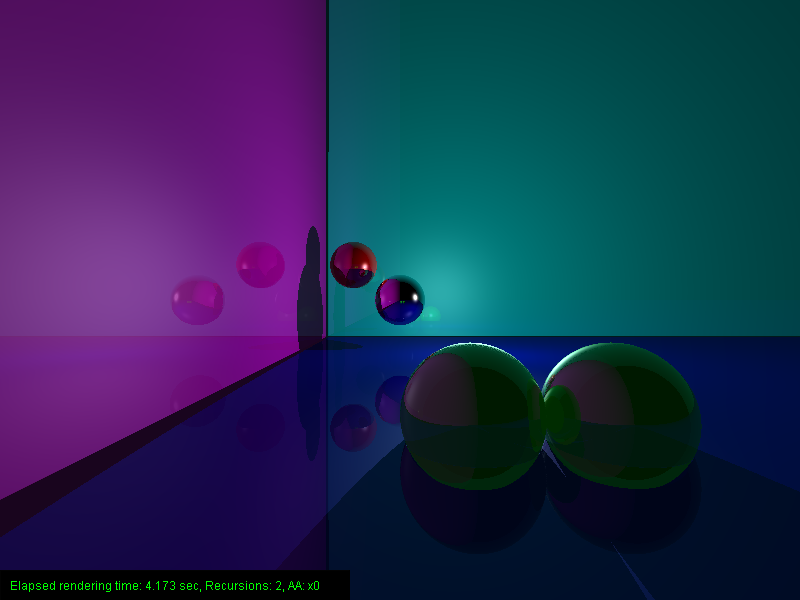
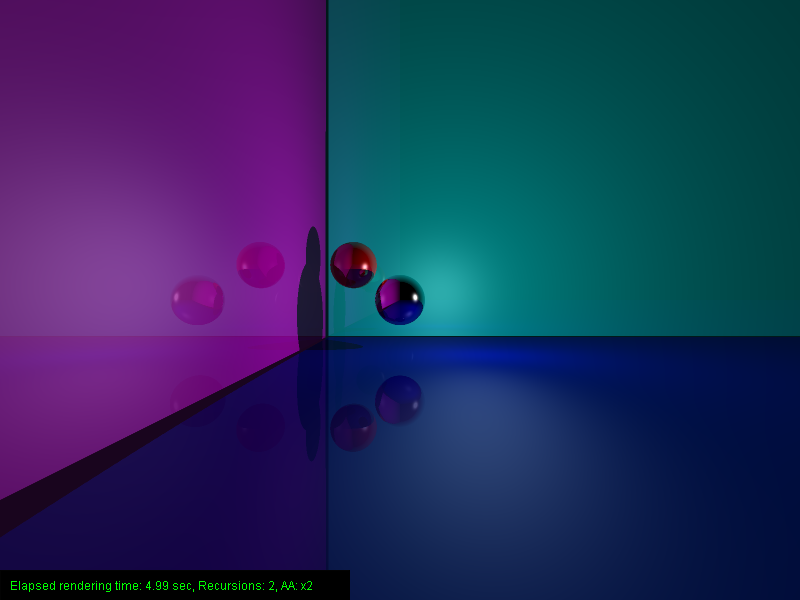
Anti Aliasing

Changed region(s): [[0.1875, 0.57, 0.9375, 1.0], [0.4062, 0.42, 0.4375, 0.48], [0.5312, 0.51, 0.5625, 0.54]]

diff --git a/VCG_Raytracer/src/raytracer/Raytracer.java b/VCG_Raytracer/src/raytracer/Raytracer.java
@@ -30,8 +30,6 @@ import utils.io.Log;
 
 import java.awt.image.BufferedImage;
 import java.util.ArrayList;
-import java.util.Collections;
-import java.util.Comparator;
 
 public class Raytracer {
 
@@ -41,11 +39,25 @@ public class Raytracer {
     private Window mRenderWindow;
 
     private int mMaxRecursions;
+    private AntiAliasingLevel antiAliasingLevel;
+    ArrayList<Vec2> antiAliasingPositions = new ArrayList<>();
 
-    public Raytracer(Scene scene, Window renderWindow, int recursions) {
+    public enum AntiAliasingLevel {
+        disabled,
+        x2,
+        x4,
+        x8
+    }
+
+//    private Vec2 antiAliasingResolution;
+
+    public Raytracer(Scene scene, Window renderWindow, int recursions, AntiAliasingLevel antiAliasingLevel) {
         Log.print(this, "Init");
         mMaxRecursions = recursions;
+        this.antiAliasingLevel = antiAliasingLevel;
         mBufferedImage = renderWindow.getBufferedImage();
+//        antiAliasingResolution = new Vec2(mBufferedImage.getWidth() * antiAliasingLevel, mBufferedImage.getHeight() * antiAliasingLevel);
+
 
         this.scene = scene;
         mRenderWindow = renderWindow;
@@ -62,12 +74,19 @@ public class Raytracer {
         float windowWidth = ratio * windowHeight;
         Vec3 windowCenter = cam.getPosition().add(cam.view.multScalar(cam.focalLength));
 
+        generateAADistribution();
+
 
 //        Log.print(this, "resolution: " + mBufferedImage.getWidth() + " x " + mBufferedImage.getHeight());
 //        Log.print(this, "ratio: " + ratio);
 //        Log.print(this, "window height: " + windowHeight);
 //        Log.print(this, "window width: " + windowWidth);
 //        Log.print(this, "window center: " + windowCenter);
+
+        Log.print(this, "0,0 = " + pixelPosNormalized(0, 0));
+        Log.print(this, "800,600 = " + pixelPosNormalized(799, 599));
+        Log.print(this, "0,600 = " + pixelPosNormalized(0, 599));
+        Log.print(this, "800,0 = " + pixelPosNormalized(799, 0));
 
 
         // Rows
@@ -76,34 +95,37 @@ public class Raytracer {
             for (int x = 0; x < mBufferedImage.getWidth(); x++) {
 
                 Vec2 normPos = pixelPosNormalized(x, y);
-                Vec3 worldPos = windowCenter
-                        .add(cam.camUp.multScalar(normPos.y * windowHeight / -2f))
-                        .add(cam.side.multScalar(normPos.x * windowWidth / 2f));
 
-                Ray ray = new Ray(cam.getPosition(), worldPos.sub(cam.getPosition()));
+                Vec3 colorVec = new Vec3(0, 0, 0);
 
-//                mRenderWindow.setPixel(mBufferedImage, rayToColor(ray), new Vec2(x,y));
-                mRenderWindow.setPixel(mBufferedImage, traceRay(ray, 0), new Vec2(x, y));
+                if (antiAliasingLevel == AntiAliasingLevel.disabled) {
+                    Vec3 worldPos = screen2World(windowCenter, normPos, windowWidth, windowHeight);
+
+                    Ray ray = new Ray(cam.getPosition(), worldPos.sub(cam.getPosition()));
+
+                    mRenderWindow.setPixel(mBufferedImage, traceRay(ray, 0), new Vec2(x, y));
+
+                } else {
+                    for (Vec2 pos : antiAliasingPositions) {
+
+                        Vec3 worldPos = screen2World(windowCenter, normPos.add(pos), windowWidth, windowHeight);
+
+                        Ray ray = new Ray(cam.getPosition(), worldPos.sub(cam.getPosition()));
+
+                        RgbColor color = traceRay(ray, 0);
+
+                        colorVec = colorVec.add(new Vec3(color.red(), color.green(), color.blue()));
+                    }
+
+                    colorVec = colorVec.devideScalar(antiAliasingPositions.size());
+
+                    mRenderWindow.setPixel(mBufferedImage, new RgbColor(colorVec.x, colorVec.y, colorVec.z), new Vec2(x, y));
+                }
+            }
 
 //                if(y % 10 == 0 && x % 10 == 0) Log.print(this, "pixel: " + x + "," + y + "\nnormPos:  " + normPos + "\nworldPos: " + worldPos);
-            }
         }
     }
-
-
-    private RgbColor rayToColor(Ray ray) {
-        return new RgbColor(ray.getDirection().normalize());
-    }
-
-//    private RgbColor sendPrimaryRay(Ray ray) {
-//
-//        return sendPrimaryRay(ray, false);
-//    }
-//
-//    private RgbColor sendPrimaryRay(Ray ray, boolean debug) {
-//
-//        return traceRay(ray, 0);
-//    }
 
     private RgbColor traceRay(Ray ray, int currentRecursion) {
 
@@ -125,7 +147,7 @@ public class Raytracer {
 
         RgbColor color = material.getColor(inter.interSectionPoint, inter.normal, ray.getDirection().multScalar(-1), scene);
 
-        if(currentRecursion >= mMaxRecursions || refl == 0) return color;
+        if (currentRecursion >= mMaxRecursions || refl == 0) return color;
         else {
             //calc reflection ray
             Ray reflRay = new Ray(inter.interSectionPoint, Material.getReflectionVector(inter.normal, ray.getDirection().multScalar(-1)));
@@ -136,21 +158,82 @@ public class Raytracer {
         }
     }
 
-    private RgbColor shade() {
-        return new RgbColor(0, 0, 0);
-    }
+//    private RgbColor shade() {
+//        return new RgbColor(0, 0, 0);
+//    }
+//
+//    private RgbColor traceIllumination() {
+//        return new RgbColor(0, 0, 0);
+//    }
 
-    private RgbColor traceIllumination() {
-        return new RgbColor(0, 0, 0);
-    }
+    private Vec3 screen2World(Vec3 windowCenter, Vec2 normPos, float windowWidth, float windowHeight) {
 
-    private Vec3 screen2World(float x, float y) {
-
-        return new Vec3(2 * ((x + 0.5f) / 1) - 1, 0f, 0);
+        return windowCenter
+                .add(scene.camera.camUp.multScalar(normPos.y * windowHeight / -2f))
+                .add(scene.camera.side.multScalar(normPos.x * windowWidth / 2f));
     }
 
     private Vec2 pixelPosNormalized(float x, float y) {
         return new Vec2(2 * ((x + 0.5f) / mBufferedImage.getWidth()) - 1,
                 2 * ((y + 0.5f) / mBufferedImage.getHeight()) - 1);
+    }
+
+    private void generateAADistribution() {
+        if (antiAliasingLevel != AntiAliasingLevel.disabled) {
+//            float pixelSize = windowHeight / (float) mBufferedImage.getHeight();
+            float pixelSizeNormPos = 2 / (float) mBufferedImage.getWidth(); //relative pixel size relative to resolution
+
+            switch (antiAliasingLevel) {
+                case x2:
+                    float q4 = pixelSizeNormPos / 4;
+
+                    antiAliasingPositions.add(new Vec2(-q4, -q4));
+                    antiAliasingPositions.add(new Vec2(-q4, q4));
+                    antiAliasingPositions.add(new Vec2(q4, -q4));
+                    antiAliasingPositions.add(new Vec2(q4, q4));
+                    break;
+                case x4:
+                    float q8 = pixelSizeNormPos / 8;
+
+                    //upper left corner
+                    antiAliasingPositions.add(new Vec2(-3 * q8, q8));
+                    antiAliasingPositions.add(new Vec2(-q8, 3 * q8));
+                    //bottom left corner
+                    antiAliasingPositions.add(new Vec2(-3 * q8, -q8));
+                    antiAliasingPositions.add(new Vec2(-q8, -3 * q8));
+                    //upper right corner
+                    antiAliasingPositions.add(new Vec2(3 * q8, q8));
+                    antiAliasingPositions.add(new Vec2(q8, 3 * q8));
+                    //bottom right
+                    antiAliasingPositions.add(new Vec2(3 * q8, -q8));
+                    antiAliasingPositions.add(new Vec2(q8, -3 * q8));
+                    break;
+
+                case x8:
+                    q8 = pixelSizeNormPos / 8;
+
+                    //upper left corner
+                    antiAliasingPositions.add(new Vec2(-q8, q8));
+                    antiAliasingPositions.add(new Vec2(-3 * q8, 3 * q8));
+                    antiAliasingPositions.add(new Vec2(-3 * q8, q8));
+                    antiAliasingPositions.add(new Vec2(-q8, 3 * q8));
+                    //bottom left corner
+                    antiAliasingPositions.add(new Vec2(-q8, -q8));
+                    antiAliasingPositions.add(new Vec2(-3 * q8, -3 * q8));
+                    antiAliasingPositions.add(new Vec2(-3 * q8, -q8));
+                    antiAliasingPositions.add(new Vec2(-q8, -3 * q8));
+                    //upper right corner
+                    antiAliasingPositions.add(new Vec2(q8, q8));
+                    antiAliasingPositions.add(new Vec2(3 * q8, 3 * q8));
+                    antiAliasingPositions.add(new Vec2(3 * q8, q8));
+                    antiAliasingPositions.add(new Vec2(q8, 3 * q8));
+                    //bottom right
+                    antiAliasingPositions.add(new Vec2(q8, -q8));
+                    antiAliasingPositions.add(new Vec2(3 * q8, -3 * q8));
+                    antiAliasingPositions.add(new Vec2(3 * q8, -q8));
+                    antiAliasingPositions.add(new Vec2(q8, -3 * q8));
+                    break;
+            }
+        }
     }
 }

diff --git a/VCG_Raytracer/src/Main.java b/VCG_Raytracer/src/Main.java
@@ -52,6 +52,7 @@ public class Main {
      **/
 
     static int RECURSIONS = 2;
+    static Raytracer.AntiAliasingLevel ANTIALIASING_LEVEL = Raytracer.AntiAliasingLevel.x2;
 
     /**
      * Initial method. This is where the show begins.
@@ -63,7 +64,7 @@ public class Main {
 
         draw(renderWindow);
 
-        renderWindow.exportRendering(String.valueOf(stopTime(tStart)), RECURSIONS, 0);
+        renderWindow.exportRendering(String.valueOf(stopTime(tStart)), RECURSIONS, getAntiAliasingLevel());
 
 //        while(true){
 //            //Thread.sleep(100);
@@ -86,7 +87,7 @@ public class Main {
      * Raytrace through the scene
      **/
     private static void raytraceScene(Window renderWindow, Scene renderScene) {
-        Raytracer raytracer = new Raytracer(renderScene, renderWindow, RECURSIONS);
+        Raytracer raytracer = new Raytracer(renderScene, renderWindow, RECURSIONS, ANTIALIASING_LEVEL);
 
         raytracer.renderScene();
     }
@@ -202,5 +203,16 @@ public class Main {
 //                0.5f));
 
         return scene;
+    }
+
+    private static int getAntiAliasingLevel(){
+
+        switch (ANTIALIASING_LEVEL){
+            case disabled: return 0;
+            case x2: return 2;
+            case x4: return 4;
+            case x8: return 8;
+        }
+        return 0;
     }
 }

diff --git a/VCG_Raytracer/src/utils/algebra/Vec3.java b/VCG_Raytracer/src/utils/algebra/Vec3.java
@@ -81,6 +81,14 @@ public class Vec3 {
     }
 
     /**
+     Get new vector with the given value multiplied to every component
+     **/
+    public Vec3 devideScalar(float value){
+        return new Vec3(this.x / value, this.y / value, this.z / value);
+    }
+
+
+    /**
         Get new vector through the cross product of the vector and the given vector
      **/
     public Vec3 cross(Vec3 inputVec){
